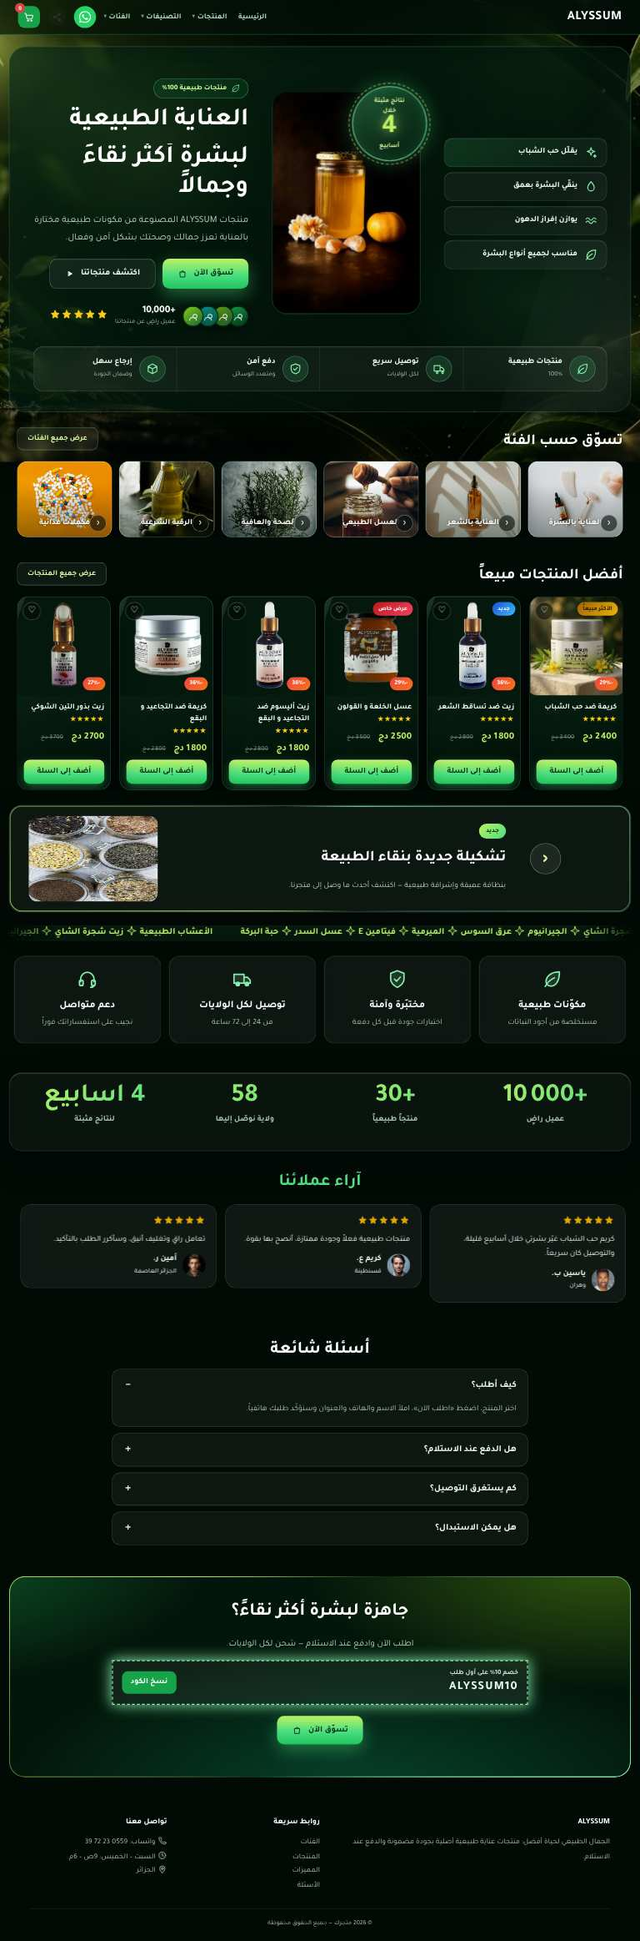
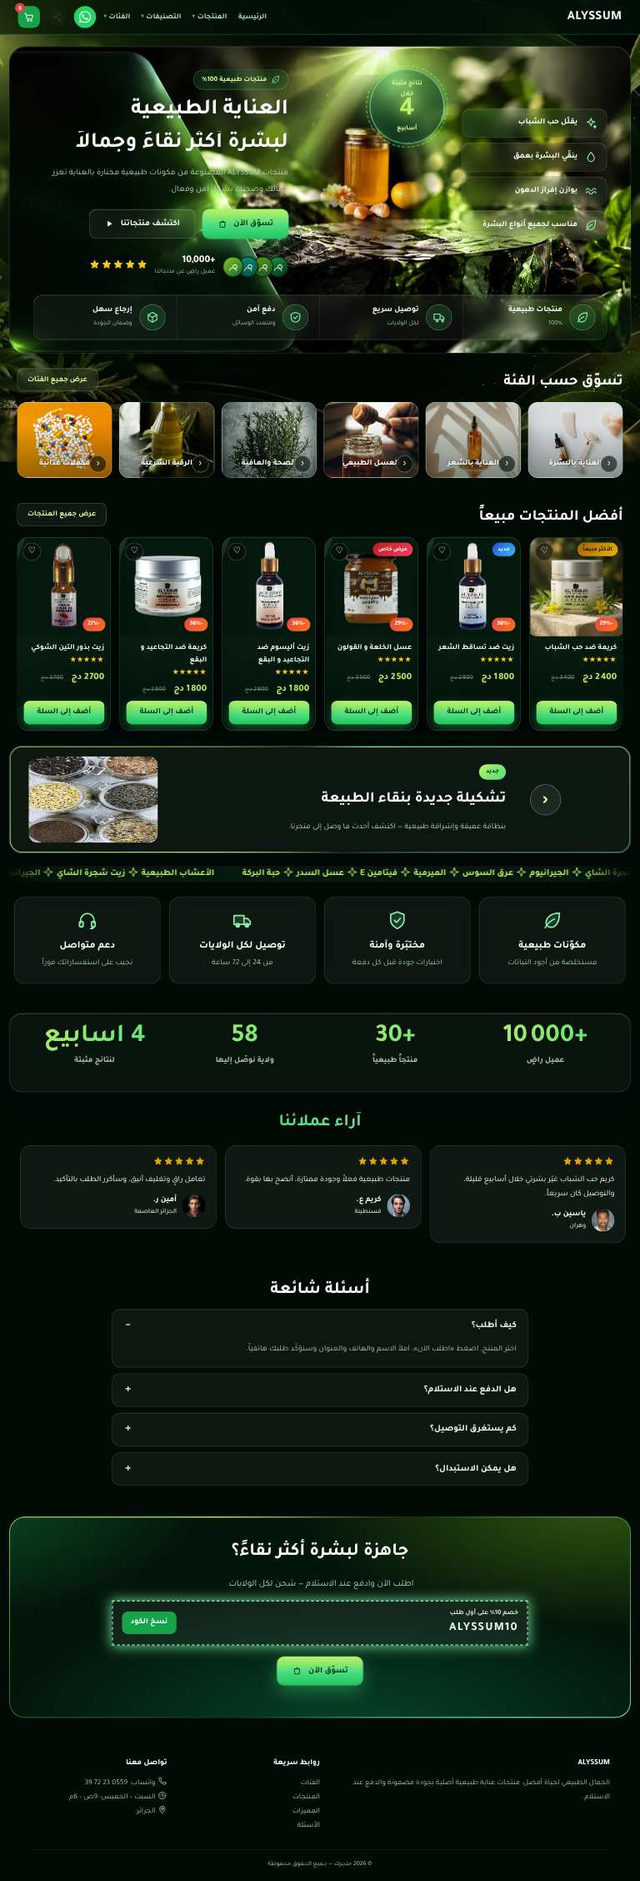
v1.51.3: خلفية هيرو قالب أليسوم (صورة مولَّدة) وضبط حجم الهيرو
Claude-Session: https://claude.ai/code/session_018PaJDUPtbAz51NfPkpNWed

diff --git a/admin.html b/admin.html
@@ -3,7 +3,7 @@
 <head>
 <meta charset="UTF-8">
 <meta name="viewport" content="width=device-width, initial-scale=1.0">
-<meta name="admin-version" content="1.51.2">
+<meta name="admin-version" content="1.51.3">
 <title>لوحة التحكم — أليسوم</title>
 <link rel="preconnect" href="https://fonts.googleapis.com">
 <link href="https://fonts.googleapis.com/css2?family=Cairo:wght@400;700;800;900&display=swap" rel="stylesheet">
@@ -1540,12 +1540,12 @@ document.addEventListener("keydown", e=>{ if(e.key === "Escape") SitePreview.clo
 <script src="assets/js/chrome.js?v=9"></script>
 <script src="assets/js/modern-icons.js?v=1.28.3"></script>
 <script>document.addEventListener("DOMContentLoaded",function(){try{ModernIcons.style();ModernIcons.watch({skip:"#pbx-frame,.pbx-ip .g,[data-keep-emoji]"})}catch(e){}})</script>
-<script src="assets/js/ctl-help.js?v=1.51.2"></script>
-<script src="assets/js/chrome-admin.js?v=1.51.2"></script>
-<script src="assets/js/admin-assistant.js?v=1.51.2"></script>
+<script src="assets/js/ctl-help.js?v=1.51.3"></script>
+<script src="assets/js/chrome-admin.js?v=1.51.3"></script>
+<script src="assets/js/admin-assistant.js?v=1.51.3"></script>
 <script src="assets/js/img-gen.js?v=1.51.0"></script>
-<script src="assets/js/admin-nav.js?v=1.51.2"></script>
-<script src="assets/js/admin-update.js?v=1.51.2"></script>
+<script src="assets/js/admin-nav.js?v=1.51.3"></script>
+<script src="assets/js/admin-update.js?v=1.51.3"></script>
 <script src="assets/js/ai-vision.js?v=51"></script>
 <script src="assets/js/avatar-script.js"></script>
 <script src="assets/js/wilayas.js"></script>

diff --git a/assets/js/admin-nav.js b/assets/js/admin-nav.js
@@ -62,7 +62,7 @@ const AdminNav = (() => {
     { id: "o-trust", cat: "order", fld: "صحة وعسل", n: "ضمانات + شارات ثقة + نموذج الطلب", d: "بطاقات الدفع عند الاستلام والتوصيل ثم شارات الثقة ونموذج الطلب.", b: dflt(["assure", "trust", "order"]) },
     { id: "p-focus-honey", cat: "page", fld: "صحة وعسل", n: "هبوط: عسل التركيز", d: "صفحة هبوط كاملة مبنية بعناصر المطوّر على نمط التصميم المرجعي.", file: "focus-honey" }
   ];
-  const LS = { cat: "all", fld: "all" }; let LIBX = null; const V = "1.51.2";
+  const LS = { cat: "all", fld: "all" }; let LIBX = null; const V = "1.51.3";
   async function libLoad() { if (LIBX) return; LIBX = []; try { const r = await fetch("assets/pages/templates/index.json?v=" + Date.now(), { cache: "no-store" }); if (r.ok) LIBX = (await r.json()).map(x => Object.assign({ file: x.id, adv: true }, x)); } catch (e) { } }
   function libAll() { return LIB.concat(LIBX || []); }
   async function libOpen() { await libLoad(); LS.cat = "all"; LS.fld = "all"; let m = $("tl-lib"); if (!m) { m = document.createElement("div"); m.id = "tl-lib"; m.onclick = e => { if (e.target === m) libClose(); }; document.body.appendChild(m); } m.style.display = "flex"; libDraw(); }

diff --git a/scripts/gen-templates-alyssum.py b/scripts/gen-templates-alyssum.py
@@ -62,7 +62,11 @@ body::before{content:"";position:fixed;inset:-2%;z-index:-2;pointer-events:none;
 .aly-trust b{display:block;font-size:16px}.aly-trust small{color:#a7c4b2;font-size:13px}
 .aly-trust div:hover i{animation:alyBeat .9s}@keyframes alyBeat{40%{transform:scale(1.22)}}
 @media(max-width:900px){.aly-trust{grid-template-columns:1fr 1fr}.aly-trust div:nth-child(3){border-inline-start:0}}
-.pb-sec.aly-glass{border:1px solid rgba(134,239,172,.26);border-radius:34px;background:linear-gradient(140deg,rgba(6,40,22,.72),rgba(2,12,7,.88));box-shadow:0 40px 110px rgba(0,0,0,.65),0 0 90px rgba(34,197,94,.1),inset 0 1px 0 rgba(255,255,255,.14);overflow:hidden}
+.pb-sec.aly-glass{border:1px solid rgba(134,239,172,.26);border-radius:34px;box-shadow:0 40px 110px rgba(0,0,0,.65),0 0 90px rgba(34,197,94,.1),inset 0 1px 0 rgba(255,255,255,.14);overflow:hidden}
+.pb-sec.aly-glass:not(#hero){background:linear-gradient(140deg,rgba(6,40,22,.72),rgba(2,12,7,.88))}
+#hero.aly-glass{background-color:#020a06;background-size:cover;background-position:center}
+#hero.aly-glass::before{display:none}
+@media(max-width:767px){#hero.aly-glass{background-position:62% center}#hero.aly-glass::before{display:block;background:linear-gradient(180deg,rgba(2,12,7,.62),rgba(2,12,7,.4) 55%,rgba(2,12,7,.7));animation:none}}
 .aly-glass::before{content:"";position:absolute;inset:0;pointer-events:none;background:radial-gradient(28% 40% at 22% 30%,rgba(190,242,100,.1),transparent 70%),radial-gradient(30% 40% at 80% 70%,rgba(74,222,128,.12),transparent 70%);animation:alyBokeh 14s ease-in-out infinite alternate}
 @keyframes alyBokeh{to{transform:translate(40px,-20px) scale(1.1);opacity:.7}}
 .aly-glass::after{content:"";position:absolute;top:0;left:-60%;width:40%;height:100%;pointer-events:none;background:linear-gradient(100deg,transparent,rgba(255,255,255,.07),transparent);transform:skewX(-18deg);animation:alySheen 9s ease-in-out infinite}
@@ -128,21 +132,21 @@ hs["fxs"] = [FX("زجاج الهيدر", "selector{backdrop-filter:blur(18px) sa
 
 hero_text = C([
     alyhtml("<span class='aly-pill'>%s منتجات طبيعية 100%%</span>" % S_(I_LEAF), **anim("fadeDown", .7)),
-    W("heading", text="العناية الطبيعية", tag="h1", fs=dm(50, 34), fw="900", ta={"d": "start"}, color="#ffffff", lh={"d": 1.15}, **anim("slideStart", .8)),
-    W("heading", text="لبشرة أكثر نقاءً وجمالاً", tag="div", fs=dm(50, 34), fw="900", ta={"d": "start"}, color="#bef264", lh={"d": 1.2},
+    W("heading", text="العناية الطبيعية", tag="h1", fs=dm(44, 32), fw="900", ta={"d": "start"}, color="#ffffff", lh={"d": 1.15}, **anim("slideStart", .8)),
+    W("heading", text="لبشرة أكثر نقاءً وجمالاً", tag="div", fs=dm(44, 32), fw="900", ta={"d": "start"}, color="#bef264", lh={"d": 1.2},
       fxs=[FX("نص يتدرّج للأخضر الليموني", "selector .pb-t{background:linear-gradient(to left,#ffffff 0%,#ffffff 36%,#d9f99d 54%,#a3e635 78%,#4ade80 100%);background-size:200% 100%;-webkit-background-clip:text;background-clip:text;color:transparent!important;-webkit-text-fill-color:transparent;animation:alyGt 7s ease-in-out infinite alternate}@keyframes alyGt{to{background-position:100% 0}}")], **anim("slideStart", .8, .1)),
-    T("منتجات ALYSSUM المصنوعة من مكونات طبيعية مختارة بالعناية تعزز جمالك وصحتك بشكل آمن وفعال.", 19, "#b7d2c0", "start", **anim("fadeUp", .8, .2)),
+    T("منتجات ALYSSUM المصنوعة من مكونات طبيعية مختارة بالعناية تعزز جمالك وصحتك بشكل آمن وفعال.", 17, "#b7d2c0", "start", **anim("fadeUp", .8, .2)),
     alyhtml(hero_btns, **anim("fadeUp", .8, .3)),
     alyhtml(hero_proof, **anim("fadeUp", .8, .4)),
-], w=40, va="center", pad=dm([10, 20, 10, 0]))
+], w=46, va="center", pad=dm([6, 10, 6, 0]))
 hero_mid = C([
     alyhtml(badge, mar=dm([0, 0, -150, 0]), al={"d": "start"}, zi=3, **anim("zoomIn", .9, .3)),
     PIC("honey_jar", "منتج أليسوم", 30, slot="hero", w=dm(92, 100), al={"d": "center"},
-        fxs=[FX("وهج وطفو المنتج", "selector img{box-shadow:0 40px 90px rgba(0,0,0,.6),0 0 70px rgba(74,222,128,.35);border:1px solid rgba(134,239,172,.4);animation:alyFloatImg 7s ease-in-out infinite}@keyframes alyFloatImg{50%{transform:translateY(-14px)}}")], **anim("zoomIn", .9, .15)),
-], w=29, va="center")
-hero_right = C([alyhtml(hero_ben, **anim("slideEnd" if False else "fadeUp", .8, .25))], w=31, va="center", pad=dm([0, 0, 0, 20]))
+        fxs=[FX("وهج وطفو المنتج", "selector img{border:0;border-radius:0;-webkit-mask-image:radial-gradient(ellipse 50% 52% at 50% 50%,#000 42%,transparent 100%);mask-image:radial-gradient(ellipse 50% 52% at 50% 50%,#000 42%,transparent 100%);filter:drop-shadow(0 24px 30px rgba(0,0,0,.55));animation:alyFloatImg 7s ease-in-out infinite}@keyframes alyFloatImg{50%{transform:translateY(-14px)}}")], **anim("zoomIn", .9, .15)),
+], w=26, va="center")
+hero_right = C([alyhtml(hero_ben, **anim("slideEnd" if False else "fadeUp", .8, .25))], w=28, va="center", pad=dm([0, 0, 0, 20]))
 hero_trust = C([alyhtml(trust, **anim("fadeUp", .8, .5))], w=100, pad=dm([26, 0, 0, 0]))
-hero = S([hero_text, hero_mid, hero_right, hero_trust], cw={"d": 1240}, pad=dm([54, 40, 40, 40], [30, 18, 24, 18]), mar=dm([22, 18, 0, 18], [14, 8, 0, 8]), rev=True, cls="aly-glass", gap={"d": 14}, **{"cid": "hero"})
+hero = S([hero_text, hero_mid, hero_right, hero_trust], cw={"d": 1240}, pad=dm([40, 40, 26, 40], [30, 18, 24, 18]), mar=dm([22, 18, 0, 18], [14, 8, 0, 8]), rev=True, cls="aly-glass", gap={"d": 14}, bgImg=IMG("alyssum-hero-bg"), bgSize="cover", bgPos="center", **{"cid": "hero"})
 
 cats_w = W("shopcats", items=[{"cat": "skin", "label": "", "img": IMG("skin_gua")}, {"cat": "hair", "label": "", "img": IMG("skin_dropper")}, {"cat": "honey", "label": "", "img": IMG("honey_dipper")},
                                 {"cat": "health", "label": "", "img": IMG("herb_rosemary")}, {"cat": "roqia", "label": "", "img": IMG("oil_olive")}, {"cat": "supplements", "label": "", "img": IMG("supp_caps")}],

diff --git a/CLAUDE.md b/CLAUDE.md
@@ -54,6 +54,7 @@
 - **تخطيط نافذة النسخ (v1.33.3):** `.cl-box` ارتفاعها ثابت (`min(94vh,880px)`) وكل أجزائها `flex:none` عدا `.cl-stage` (`flex:1 1 0`) فيبقى تذييل «انسخ» ظاهراً على الشاشات القصيرة (كان يُقصّ خارج الصندوق)، و`.cl-ctl[hidden]{display:none!important}` (كان الصفّان يظهران معاً)، وشريط `#cl-lr` في التذييل يضبط الحد `S.limit` ويمرّر الخط لمجال الرؤية، وسحب الحافة يمرّر النافذة تلقائياً.
 - **صفحات الغلاف والمواقع البرمجية (v1.33.2):** `getPage` في `pagebuilder-clone.js` يتّبع الإطار الرئيسي لصفحات الغلاف (`mainIframe`، مثل معاينة قوالب Wix `iframe[data-hook=desktop-iframe]`) حتى مستويين، ويحوّل تلقائياً إلى `fetchFull` عند فشل الجلب السريع أو إذا كانت الصفحة قشرة جافاسكربت (`bodyInfo`: نص<150 وصور<3) متى توفّر GitHub (`canFull`). جُرّب على قالب Wix حقيقي عبر Actions (61 عنصراً بمواضعها).
 - **إضافة كروم لنسخ القالب (v1.34.0):** `extension/alyssum-clone-helper/` (MV3: `manifest.json`، `bridge.js` محتوى سكربت على `*://*/admin.html*` يمرّر رسائل `window.postMessage` — الطلب `{alyReq:1,type:ping|fetch,id}` والردّ `{aly:1,type:pong|res,id}` — ويطلب موافقة `confirm` لكل أصل ويحفظها في `chrome.storage.local`، و`background.js` يفتح نافذة popup مؤقتة `chrome.windows.create` (يجرّب عروضاً أصغر إن كانت الشاشة أصغر)، ينتظر التحميل وصفحات التحقق حتى 40ث، يمرّر الصفحة، يجمّد DOM ويعيد `{html,iw,title}` ثم يغلقها). تُحزَّم بـ`python3 scripts/build-extension.py` إلى `assets/ext/alyssum-clone-helper.zip` (**أعد بناءها بعد أي تعديل للإضافة**)، وفي `pagebuilder-clone.js` قسم `EXT`/`extCall`/`extPing`/`extUi`/`fetchViaExt`/`extHelp` وأولوية `getPage`: GitHub الكامل (إن طُلب) ← الإضافة ← الوسطاء ← المتصفح الكامل تلقائياً. اختُبرت بـPlaywright (`launchPersistentContext` + `--headless=new --load-extension`) على صفحة مبنية بالجافاسكربت. **v1.34.1 (إضافة 1.1.0):** `grab` يقيس كل الإطارات بلا تعديل (`allFrames`) وينتظر حتى ~30ث ظهور محتوى (الإطار الداخلي يتأخر)، يمرّر الصفحة وحاويات التمرير الداخلية، ثم يجمّد **الإطار الأكبر محتوى فقط** (`frameIds`) — لا تجمّد كل الإطارات معاً فالرئيسي يحذف الـiframe قبل أن يعمل سكربت الداخلي (كانت صفحات Wix تظهر بيضاء)؛ يعيد `url` الإطار ليكون أساس `<base>`، ويرفض الصفحة الفارغة برسالة، ولوحة النسخ تنبّه «حدّث الإضافة» إن كانت النسخة <1.1.0 (v1.34.2: `extOld()` تتجاهل الإضافة القديمة، و`load` يرفض عرض صفحة وصلت فارغة بنص<60 وصور<3 برسالة بدل معاينة بيضاء؛ اختُبر بالرابط الحقيقي لقالب Wix wh-1050 عبر Playwright + الإضافة). **v1.34.4 (إضافة 1.1.2):** النافذة تُفتح `focused:true` (كروم يوقف رسم النوافذ المحجوبة فلا تُحمَّل الأقسام السفلية) و`grab` يعيد `stats{text,imgs,h,frames}` فتُظهره حالة الأداة «قرأ كروم N حرفاً…» لتشخيص الصفحات الناقصة. **v1.34.6:** `getPage` يُرجع `src` (chrome|proxy|github) وتُظهره حالة الأداة «[المصدر: …]»؛ والجلب العادي (`proxy`) الذي يعيد قشرة (نص<150 وصور حقيقية<3) يُرفض برسالة تدلّ على تثبيت/تحديث الإضافة أو سبب فشلها (`S.extErr`). **v1.34.7 (إضافة 1.1.3):** اختيار الإطار: إن غطّى إطار داخلي >50% من نافذة الإطار الرئيسي (`bf`) فالمحتوى فيه لا في الغلاف وتنتظر `measure` تحميله (كانت تُنسخ أحياناً شريط Wix العلوي فقط لأن نص الغلاف تجاوز العتبة)؛ والأداة تقيس المعاينة (`diagPage`/`measureDoc` بـ`checkVisibility`) وتُظهر العناصر المخفية بـopacity:0/visibility:hidden إن كانت المعاينة شبه فارغة مع وجود نص، وزر «نسخ التقرير» (`copyDiag`) ينسخ `S.diag` للدعم؛ وحدّ `extOld` صار 1.1.3. **تنبيه اختبار:** لا تكتب `open(f,'w').write(open(f).read()...)` فهو يُفرغ الملف (أفرغ manifest.json فتوقفت الإضافة عن التحميل)؛ تحقق بـ`ctx.serviceWorkers().length` في Playwright (ارفع الحد في `extUi` عند تغيير بروتوكول الإضافة).
+- **v1.51.2/1.51.3 — أليسوم (جوال + هيرو):** `assets/img/tpl/alyssum-bg-m.webp` خلفية الجوال (`@media(max-width:767px)` على `body::before`)، و`assets/img/tpl/alyssum-hero-bg.webp` (2000×670، مولَّدة بـGemini: لوحة زجاج على اليسار + صخرة/منصة وأشعة شمس) خلفية قسم الهيرو `#hero.aly-glass` عبر `bgImg` (قابلة للتبديل من المطوّر) وتدرّج `.pb-sec.aly-glass:not(#hero)` لبقية الأقسام الزجاجية؛ على الجوال طبقة تعتيم `::before`. صورة المنتج في الهيرو (`slot:hero`) بلا إطار ولها `mask-image` إهليلجي يذيب حوافها في المشهد (تبقى أفضل بمنتج شفاف الخلفية). حجم خط الهيرو 44 وعمود النص 46% ليبقى ارتفاعه قريباً من نسبة الخلفية 3:1. البانر (`slot:banner`) لم يُستبدل بعد.
 - **v1.51.1 — خلفية أليسوم:** `assets/img/tpl/alyssum-bg.webp` (صورة مولَّدة بـGemini من اشتراك صاحب المتجر) صارت خلفية `body::before` الثابتة في `ALY_CSS` (gen-templates-alyssum.py) بالمسار المطلق `/assets/img/tpl/alyssum-bg.webp` مع تدرّج تعتيم، وأُزيلت أوراق SVG القديمة (`body::after`)؛ على الجوال `background-position:left`. عند طلب صور أخرى لأصول القالب يولّدها صاحب المتجر في تطبيق جيميني ويرسلها، ثم تُحفظ في `assets/img/tpl/` وتُضاف لـ`shared-files.json`.
 - **v1.51.0 — مولّد الصور داخل المطوّر (وضع «صور إشهارية»):** تبويب مطوّر الصفحات في admin.html بطاقتان `#pb-modes` (`PBAdmin.mode('web'|'ad')` في pagebuilder-editor.js): `#pb-web` (القائمة القديمة، وزر «🪄 صفحة هبوط ذكية» = `openGen`) و`#pb-ad` الذي يحمل `#ig-body` (لوحة `ImgGen`)؛ `Admin.tab('imggen')` يحوّل إلى المطوّر بالوضع الإشهاري (`tab-imggen` فارغ). **النص اختياري بثلاثة أوضاع** (`alyssum_ig_txtm`: none|builder|gemini، والقديم `text` = gemini): `builder` يطلب من Gemini خلفية بمساحة فارغة (`textArea`) ثم `adPage` يضيف طبقات `heading/text/button` (السطر1 عنوان، الأوسط وصف، آخر سطر زر عند ≥3 أسطر؛ مواضع `adLayout(kind,W,H,lang)` حسب `layoutKind`، لون النص من سطوع منطقته `lum`). **محرّك التعليمات** `buildPrompt`: `ART` اتجاه فني حسب نوع المنتج + `CAMERA` + `RULES` (أمانة المنتج، بلا أشخاص/علامات) + نص/مساحة نص — **جودة الصور تعتمد عليه فعدّله هناك**. لوحة الإعلان صفحة بـ`page.ad={w,h,id,platform}` (قسم قماش `scaled` بـ`dw=W`، `mh=H`، الخلفية صورة بمسار افتراضي `assets/img/pages/ad-bg-*` في `Admin.localImg` بلا رفع)؛ وفي المطوّر الصنف `pbx-ad` على `#pb-app` يخفي التابلت/الهاتف/النشر/نسخ قالب/الجاهزة/إعدادات الصفحة، ولوحة العناصر `AD_OK` فقط، وزر `#pbx-adx` «⬇ تصدير الصورة» ← `ImgGen.exportAd` (`renderAd`: iframe مخفي بعرض W وارتفاع H + `assets/js/vendor/html-to-image.min.js` v1.11.11 ← لوحة بالبكسل ثم تنزيل PNG/WebP أو مكتبة). اختُبر بـPlaywright بمحاكاة Gemini (1080×1920 بدقة، نص عربي سليم)؛ **لم يُجرَّب بمفتاح حقيقي** (ينتظر مفتاحاً غير مقيَّد). لاحقاً: حفظ تصميم الإعلان قابلاً للتعديل، «نسخة لمنصة أخرى».
 - **v1.50.0 — مولّد الصور (استثناء بطلب صاحب المتجر من تعطيل Gemini):** `assets/js/img-gen.js` (`ImgGen`) تطبيق `imggen` (تبويب `tab-imggen`/`#ig-body`، مكان عمل مخفي `data-work=imggen`، عنصر إعدادات `data-app=imggen`) يولّد بـGemini **صورة منتج** (خلفية تناسب نوعه) أو **صورة إشهارية** بمقاسات منصات (`SIZES`: Facebook/Instagram/TikTok/Shorts/YouTube/Google Ads/مخصّص) بنص أو بلا نص؛ `buildPrompt` تعليمات لكل نوع (+ قواعد: بلا أشخاص ولا علامات مائية، المنتج المرجعي كما هو) تُرسل مع صورة المنتج، والنسبة الأقرب (`nearAr`) تُرسل كـ`aspectRatio` ثم `fit` يقصّ بالبكسل. المفتاح في `localStorage alyssum_gp_gkey` (نفسه لمولّد الصفحات) ولا يُكتب في المستودع. **ضبط التكلفة:** نموذج افتراضي الأرخص `gemini-2.5-flash-image` (≈0.039$)، لا إعادة محاولة تلقائية، تأكيد قبل كل توليد، `alyssum_ig_budget` حدّ إنفاق (افتراضي 3$) و`alyssum_ig_spent` عدّاد تقديري. النتيجة: فتح في المطوّر (`PBApp.insertSections` أو صفحة جديدة) أو مكتبة (`PBApp.uploadBlob` داخل المحرّر وإلا `Admin.uploadImageFile` إلى `assets/img/pages/gen-*`) أو تنزيل. اختُبر بمحاكاة API (المفتاح الحقيقي لم يكن صالحاً: API_KEY_SERVICE_BLOCKED). لا يتأثر بـ`CONFIG.AI_API` (بقية مواضع Gemini تبقى معطّلة).

diff --git a/assets/img/tpl/CREDITS.md b/assets/img/tpl/CREDITS.md
@@ -3,3 +3,4 @@
 شروط صاحب المتجر لأي صورة جديدة: بلا علامات مائية أو شعارات مواقع/علامات تجارية ظاهرة، ولا امرأة بلا خمار، ولا جزء عارٍ من الجسم غير الوجه واليدين. تُستبدل بصور المتجر الحقيقية من المحرّر.
 
 - `alyssum-bg.webp` و`alyssum-bg-m.webp` (الجوال): خلفية قالب أليسوم، مولَّدة بالذكاء الاصطناعي (Gemini) بطلب صاحب المتجر؛ بلا علامات مائية.
+- `alyssum-hero-bg.webp`: خلفية الهيرو في قالب أليسوم، مولَّدة بالذكاء الاصطناعي (Gemini) بطلب صاحب المتجر؛ بلا علامات مائية.
